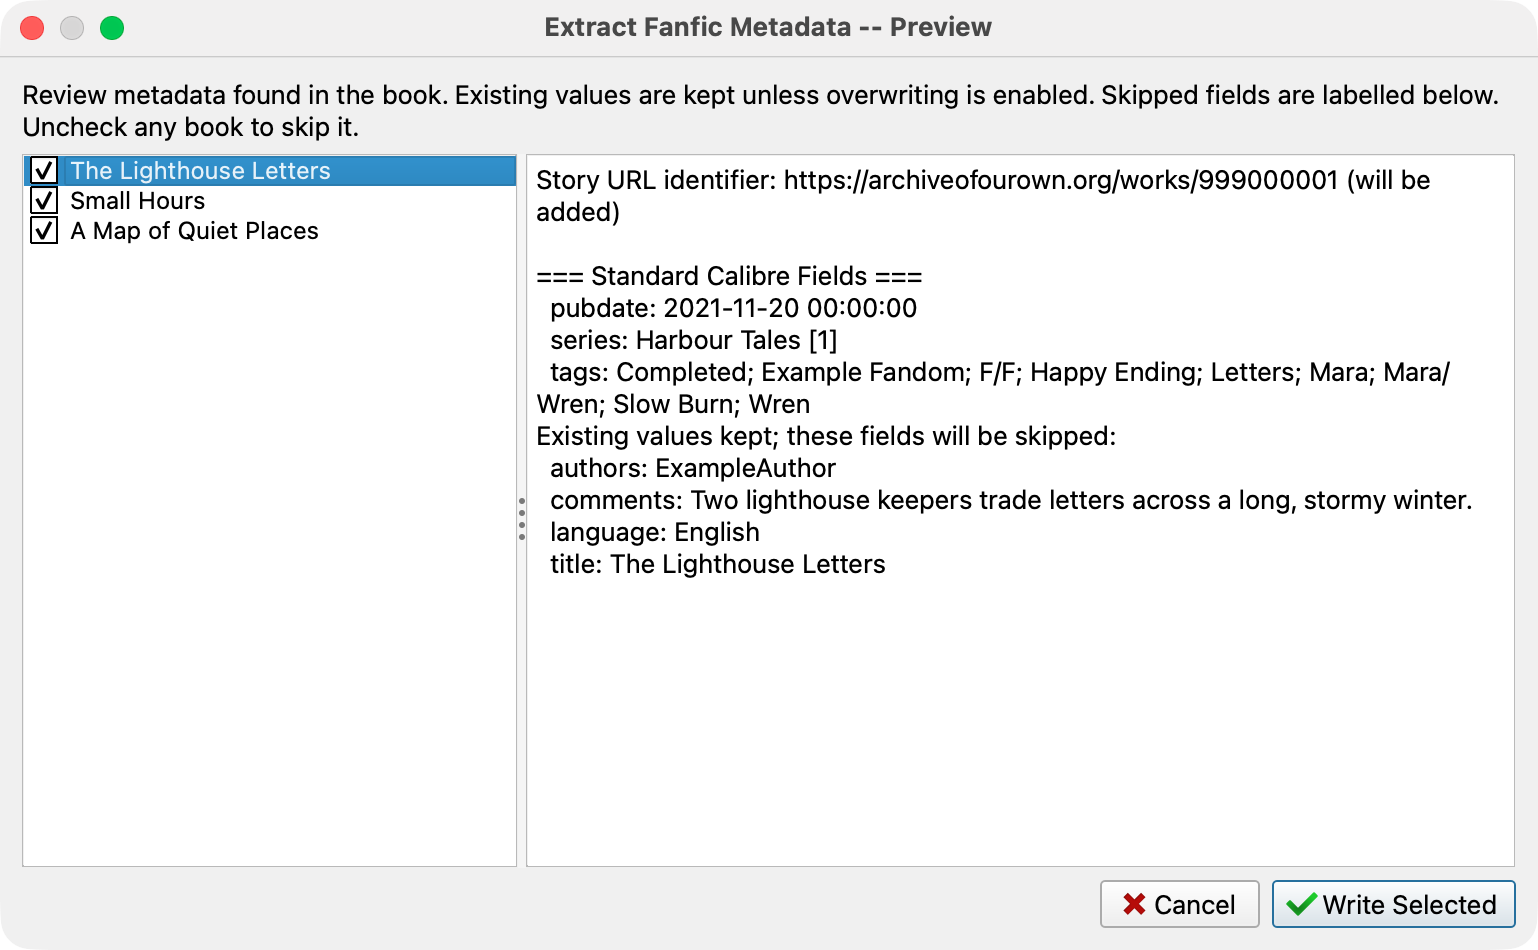
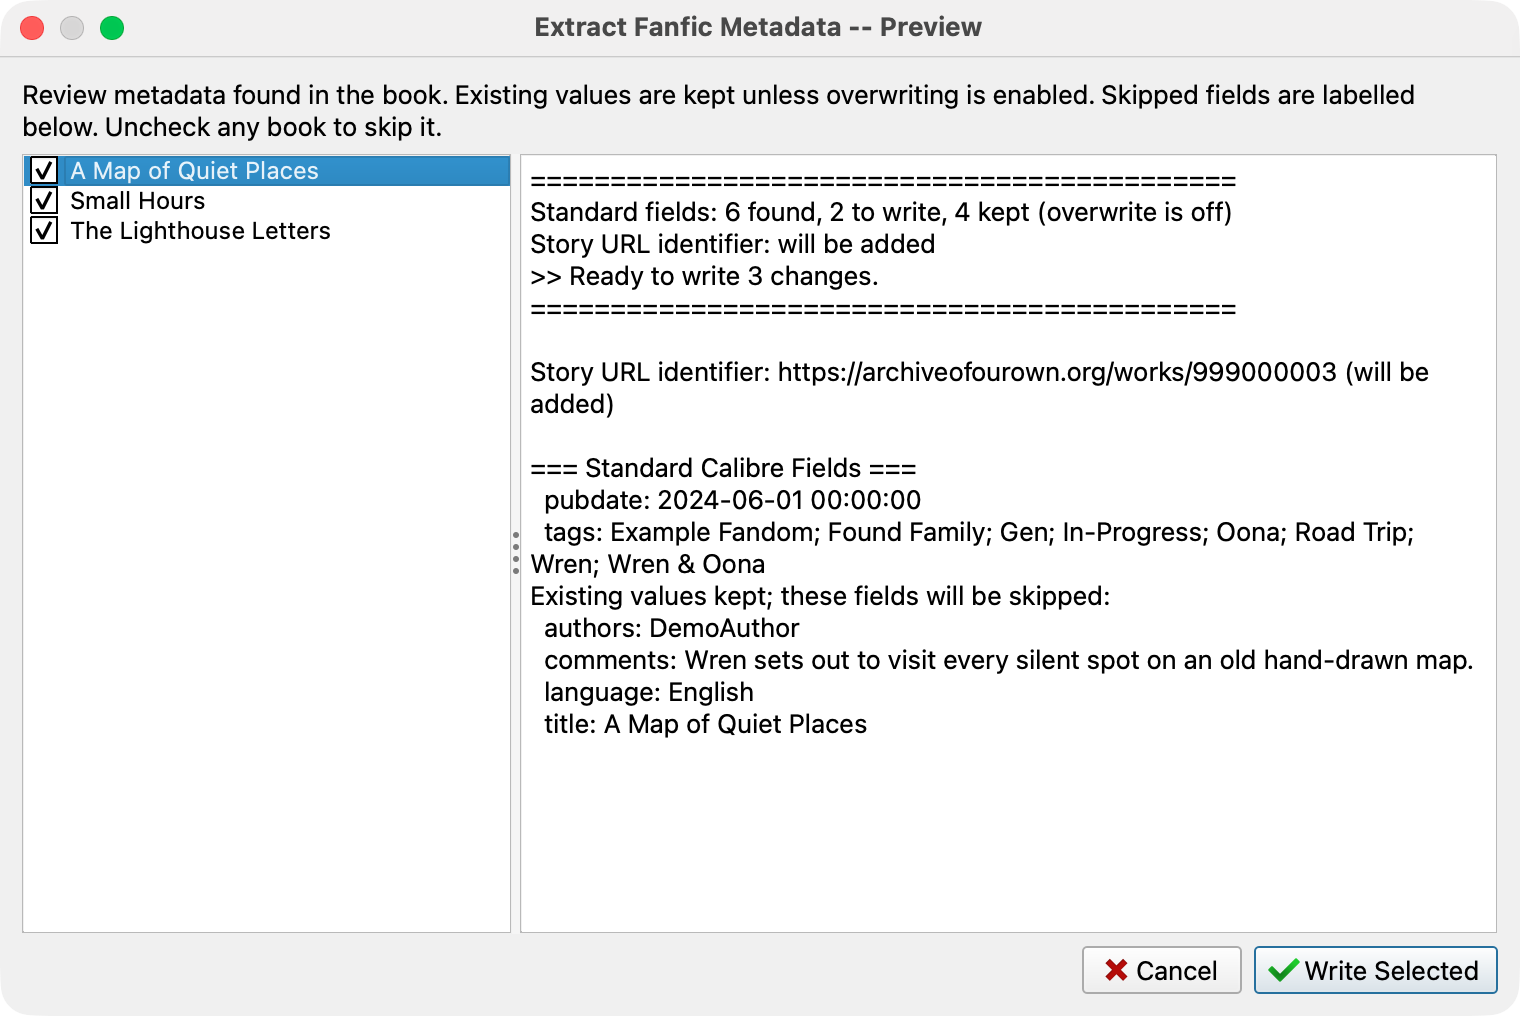
Tutorial: 1.4.2 settings and preview screenshots; mention the preview summary

Changed region(s): [[0.0, 0.0, 0.9895, 0.7326], [0.7112, 0.9158, 0.9895, 0.9768], [0.0, 0.0305, 0.0928, 0.0611]]

diff --git a/docs/index.md b/docs/index.md
@@ -77,11 +77,11 @@ For your first go:
 
 1. Select the books.
 2. Click **Extract Metadata** on the toolbar.
-3. A preview lists your books. Click each one to see what was found, and what will be skipped because it's already filled in.
+3. A preview lists your books. Click each one to see what was found, and what will be skipped because it's already filled in. The box at the top sums up what will happen to that book.
 
-   ![The preview window, listing three books, with the date, series and tags to be added to the first and the details it already has]({{ '/assets/img/preview-window.png' | relative_url }})
+   ![The preview window, listing three books. A summary at the top says 2 fields and the story link will be written and 4 details kept; below it, the date and tags to be added and the details the book already has]({{ '/assets/img/preview-window.png' | relative_url }})
 
-   In this example the title, author, summary and language were already there, so they’re kept. The date, series, tags and story link will be added.
+   In this example the title, author, summary and language were already there, so they’re kept. The date, tags and story link will be added.
 
 4. Untick any book you want to leave alone.
 5. Click **Write Selected**. A short message tells you how many books were updated.
